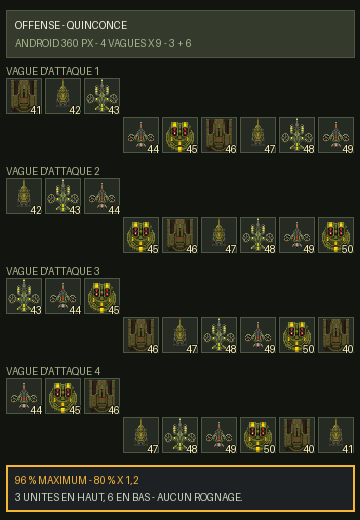
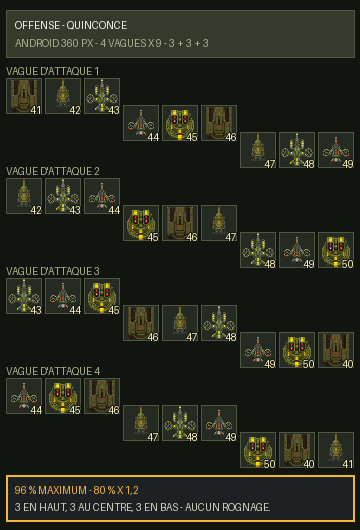
Corrige le quinconce en trois groupes de trois

diff --git a/rapports/maquette-quinconce-360.html b/rapports/maquette-quinconce-360.html
@@ -2,9 +2,9 @@
 <html lang="fr"><meta charset="utf-8"><meta name="viewport" content="width=360,initial-scale=1">
 <title>Maquette quinconce 360 px</title>
 <style>
-*{box-sizing:border-box}html,body{margin:0;width:360px;min-height:520px;background:#11140f;color:#f5f3e8;font-family:system-ui,sans-serif}body{padding:10px 6px}.entete{margin-bottom:8px;padding:8px;background:#343a2c;border:1px solid #4e5742}.entete b{font-size:13px;letter-spacing:.12em}.entete p{margin:4px 0 0;color:#aab38e;font-size:10px}.vague{margin:0 0 5px}.vague h2{margin:0 0 2px;font-size:9px;letter-spacing:.1em;color:#aab38e}.rangee{display:grid;grid-template-columns:repeat(9,minmax(0,1fr));grid-template-rows:repeat(2,auto);gap:3px;width:100%}.case{position:relative;aspect-ratio:1;overflow:hidden;border:1px solid #4e5742;background:#252a22}.case:nth-child(-n+3){grid-row:1}.case:nth-child(n+4){grid-row:2}.sprite{position:absolute;left:50%;top:50%;width:96%;height:96%;transform:translate(-50%,-50%);image-rendering:pixelated}.sprite img{position:absolute;inset:0;width:100%;height:100%;object-fit:contain;image-rendering:pixelated}.niveau{position:absolute;z-index:2;right:1px;bottom:0;color:#fff4bb;font:bold 9px/10px system-ui;text-shadow:0 1px #161914}.mesure{margin-top:7px;padding:7px;background:#1e2124;border-left:3px solid #f5b636;color:#cdd4ba;font-size:10px;line-height:1.3}.mesure b{color:#f5b636}
+*{box-sizing:border-box}html,body{margin:0;width:360px;min-height:540px;background:#11140f;color:#f5f3e8;font-family:system-ui,sans-serif}body{padding:10px 6px}.entete{margin-bottom:8px;padding:8px;background:#343a2c;border:1px solid #4e5742}.entete b{font-size:13px;letter-spacing:.12em}.entete p{margin:4px 0 0;color:#aab38e;font-size:10px}.vague{margin:0 0 5px}.vague h2{margin:0 0 2px;font-size:9px;letter-spacing:.1em;color:#aab38e}.rangee{display:grid;grid-template-columns:repeat(9,minmax(0,1fr));grid-template-rows:repeat(3,auto);column-gap:3px;row-gap:0;padding-bottom:2.6%;width:100%}.case{position:relative;aspect-ratio:1;margin-bottom:-25%;overflow:hidden;border:1px solid #4e5742;background:#252a22}.sprite{position:absolute;left:50%;top:50%;width:96%;height:96%;transform:translate(-50%,-50%);image-rendering:pixelated}.sprite img{position:absolute;inset:0;width:100%;height:100%;object-fit:contain;image-rendering:pixelated}.niveau{position:absolute;z-index:2;right:1px;bottom:0;color:#fff4bb;font:bold 9px/10px system-ui;text-shadow:0 1px #161914}.mesure{margin-top:7px;padding:7px;background:#1e2124;border-left:3px solid #f5b636;color:#cdd4ba;font-size:10px;line-height:1.3}.mesure b{color:#f5b636}
 </style>
-<body><div class="entete"><b>OFFENSE · QUINCONCE</b><p>Android 360 px · 4 vagues × 9 · 3 en haut, 6 en bas</p></div><main id="vagues"></main><div class="mesure"><b>96 % maximum</b> — partie utile 80 % × grossissement 1,2. Les neuf colonnes restent celles du combat ; seule la vague se plie sur deux lignes.</div>
+<body><div class="entete"><b>OFFENSE · QUINCONCE</b><p>Android 360 px · 4 vagues × 9 · 3 en haut, 3 au centre, 3 en bas</p></div><main id="vagues"></main><div class="mesure"><b>96 % maximum</b> — partie utile 80 % × grossissement 1,2. Les neuf colonnes restent celles du combat ; seule leur hauteur d’affichage change.</div>
 <script>
 const racine='../art/sprites/';
 const lourds=[
@@ -21,7 +21,7 @@ for(let v=1;v<=4;v++){
  const r=bloc.querySelector('.rangee');
  for(let c=1;c<=9;c++){
   const [nom,chassis,tourelle]=lourds[(c+v)%lourds.length];
-  const e=document.createElement('div');e.className='case';e.title=nom;e.style.gridColumn=String(c);e.style.gridRow=c<=3?'1':'2';
+  const e=document.createElement('div');e.className='case';e.title=nom;e.style.gridColumn=String(c);e.style.gridRow=String(Math.ceil(c/3));
   e.innerHTML=`<div class="sprite"><img src="${racine+chassis}">${tourelle?`<img src="${racine+tourelle}">`:''}</div><i class="niveau">${40+((c+v)%11)}</i>`;
   r.append(e);
  }

diff --git a/test/pictogramme.test.js b/test/pictogramme.test.js
@@ -446,7 +446,7 @@ test('PIC T6 — la famille neuve n\'a déplacé aucun des atlas d\'avant', () =
 // PIC T7 — le poids reste sous la borne, et la marge est écrite en clair
 // ---------------------------------------------------------------------------
 
-test('PIC T7 — le livrable pèse 9 391 154 octets, la marge sur la borne T10 est de 2,18 %', () => {
+test('PIC T7 — le livrable pèse 9 391 230 octets, la marge sur la borne T10 est de 2,17 %', () => {
   // ⚠⚠ DEUX MESURES, ET LA SECONDE EST CELLE QUI COMPTE. Le lot PICTOGRAMMES
   // avait produit les sprites SANS les câbler : le livrable n'avait alors pris
   // que **+911 octets**, tous en JavaScript, et le compte de `data:` n'avait pas
@@ -822,12 +822,12 @@ test('PIC T7 — le livrable pèse 9 391 154 octets, la marge sur la borne T10 e
   // MESURE, pas du patch.
   // ⚠⚠ RÉANCRÉ AU LOT RAID-REPRISE-ET-FORMATIONS, 15/09. Le livrable de `main`
   // pesait 9 386 714 octets ; l'horloge persistante, les panneaux du simulateur,
-  // le placement séparé et le quinconce validé ajoutent 4 440 octets, sans image
+  // le placement séparé et le quinconce validé ajoutent 4 516 octets, sans image
   // ni son de production nouveau.
   const BORNE = 9_600_000;           // T10 de `banc.test.js`, relevée au lot ART-90
-  const MESURE = 9_391_154;          // mesuré en version 0.99.64 · build 166
-  const MARGE = BORNE - MESURE;      // 208 846 octets
-  assert.equal(MARGE, 208_846);
+  const MESURE = 9_391_230;          // mesuré en version 0.99.65 · build 167
+  const MARGE = BORNE - MESURE;      // 208 770 octets
+  assert.equal(MARGE, 208_770);
   assert.notEqual(MARGE, 215_225,
     'la marge est revenue à l\'ancre du lot REJEU : le réancrage a été défait');
   assert.notEqual(MARGE, 214_592,
@@ -840,7 +840,7 @@ test('PIC T7 — le livrable pèse 9 391 154 octets, la marge sur la borne T10 e
     'la marge est celle d\'avant ÉCHELLE-RECHERCHE : le réancrage a été défait');
   assert.notEqual(MARGE, 213_286,
     'la marge est celle d\'avant RAID-REPRISE-ET-FORMATIONS : le réancrage a été défait');
-  assert.equal(Math.round((MARGE / BORNE) * 10_000) / 100, 2.18);
+  assert.equal(Math.round((MARGE / BORNE) * 10_000) / 100, 2.17);
   // ⚠ ET LA MARGE NE DESCEND PAS SOUS CENT CINQUANTE MILLE OCTETS. C'est la
   // borne que le brief du lot SOL-OUVRAGE pose sur le choix du côté des
   // planches : sous ce seuil, un lot de code ordinaire ne passerait plus.

diff --git a/test/offense.test.js b/test/offense.test.js
@@ -406,12 +406,14 @@ test('offense — les quatre vagues occupent tout le bassin, sans déformer les 
   assert.match(piece, /--jeton-part:\s*\d+%/,
     'la pièce ne se mesure plus en pourcentage de sa case');
 
-  // La grille occupe maintenant deux lignes physiques par vague. Les cases
-  // restent carrées et la vague ne gagne donc que la hauteur nécessaire aux
-  // deux rangées de sprites.
+  // La grille occupe maintenant trois étages physiques par vague. Les cases
+  // restent carrées et les pistes se chevauchent seulement entre des groupes
+  // placés dans des colonnes disjointes.
   const emplacements = feuille.match(/#ecran-offense \.emplacements\s*\{([^}]*)\}/)[1];
-  assert.match(emplacements, /grid-template-rows:\s*repeat\(2,\s*auto\)/,
-    'une vague n\'a plus ses deux lignes physiques');
+  assert.match(emplacements, /grid-template-rows:\s*repeat\(3,\s*auto\)/,
+    'une vague n\'a plus ses trois étages physiques');
+  assert.match(emplacement, /margin-bottom:\s*-25%/,
+    'les trois étages ne se resserrent plus pour tenir dans la hauteur');
 
   // ⚠ ET UNE VAGUE NE SE LAISSE PAS ÉCRASER : sans ça, quatre vagues dans un
   // bassin trop court rétréciraient au lieu de faire défiler, et le carré
@@ -922,7 +924,7 @@ test('offense — l\'écran porte le bassin, et il est INLINÉ', () => {
     'un bassin qui se répète ferait une couture au milieu de l\'écran');
 });
 
-test('offense — chaque vague plie ses neuf colonnes en trois puis six à 360 px', () => {
+test('offense — chaque vague plie ses neuf colonnes en trois, trois et trois à 360 px', () => {
   const { doc, parId } = fauxDocumentOffense();
   initialiserEcranOffense(doc);
 
@@ -937,8 +939,8 @@ test('offense — chaque vague plie ses neuf colonnes en trois puis six à 360 p
       Array.from({ length: NB_COLONNES }, (_, i) => String(i + 1)),
       'une colonne visuelle ne correspond plus à sa colonne de combat');
     assert.deepEqual(rangee.children.map((e) => e.style.gridRow),
-      ['1', '1', '1', '2', '2', '2', '2', '2', '2'],
-      'la vague ne suit plus le placement trois en haut, six en bas');
+      ['1', '1', '1', '2', '2', '2', '3', '3', '3'],
+      'la vague ne suit plus le placement trois en haut, trois au centre, trois en bas');
   }
 
   const source = readFileSync(join(RACINE, 'src', 'ui', 'offense.js'), 'utf8');

diff --git a/src/index.src.html b/src/index.src.html
@@ -2130,13 +2130,19 @@
     margin: 0 0 3px; font-size: 9px; letter-spacing: 0.1em; text-transform: uppercase; color: #68727E;
   }
   /* Les neuf emplacements d'une vague se plient comme sur la capture validée
-     à 360 px : les colonnes 1 à 3 occupent la ligne haute, les colonnes 4 à 9
-     la ligne basse. Elles restent sur une grille de neuf colonnes : aucune
-     translation ne sépare le dessin de la zone touchée, et la seconde ligne
-     commence exactement sous la quatrième colonne. `ui/offense.js` fournit le
-     nombre de colonnes depuis NB_COLONNES ainsi que la ligne de chaque case. */
+     à 360 px : trois en haut à gauche, trois au centre, trois en bas à droite.
+     Ils restent sur une grille de neuf colonnes : aucune translation ne sépare
+     le dessin de la zone touchée. `ui/offense.js` fournit le nombre de colonnes
+     depuis NB_COLONNES ainsi que l'étage de chaque case.
+
+     Les marges basses négatives font se chevaucher les PISTES, jamais les
+     cases : les trois groupes occupent des colonnes disjointes. Elles réduisent
+     le pas vertical d'un quart de case, et le padding rend au dernier groupe ce
+     quart afin que la vague suivante ne le recouvre pas. Le pourcentage suit
+     la largeur réelle des cases sur les écrans plus larges. */
   #ecran-offense .emplacements {
-    display: grid; grid-template-rows: repeat(2, auto); gap: 3px;
+    display: grid; grid-template-rows: repeat(3, auto);
+    column-gap: 3px; row-gap: 0; padding-bottom: 2.6%;
   }
   #ecran-offense .emplacement {
     /* ⚠ `relative` POUR LA PASTILLE DE NIVEAU — voir `.emplacement .niveau`.
@@ -2147,7 +2153,7 @@
     /* ⚠ SANS APLAT, COMME LA CASE DU RAID : même grille de composition, mêmes
        pièces — en traiter une seule aurait donné deux fonds d'un écran à
        l'autre. Voir le ⚠⚠ de `#ecran-raid .emplacement`. */
-    aspect-ratio: 1; background: transparent;
+    aspect-ratio: 1; margin-bottom: -25%; background: transparent;
     display: flex; align-items: center; justify-content: center;
     overflow: hidden; font-size: 7px; line-height: 1.1; text-align: center;
     color: #68727E; word-break: break-word;

diff --git a/src/ui/offense.js b/src/ui/offense.js
@@ -730,10 +730,10 @@ export function initialiserEcranOffense(doc, { apresPose, sonDeRefus } = {}) {
   // le balisage à chaque image ferait perdre l'aperçu et le défilement.
   corps.textContent = '';
   // La vague reste une liste logique de neuf colonnes pour le moteur. À
-  // l'écran, la capture validée le 15/09 la plie après son premier tiers :
-  // trois pièces en haut, puis six en bas à partir de la quatrième colonne.
+  // l'écran, la capture validée le 15/09 la plie par tiers : trois pièces en
+  // haut, trois au centre, puis trois en bas.
   // Le calcul suit NB_COLONNES afin que le DOM ne porte pas une seconde largeur.
-  const derniereColonneHaute = Math.ceil(NB_COLONNES / 3);
+  const emplacementsParEtage = Math.ceil(NB_COLONNES / 3);
   for (const vague of vaguesDAssaut()) {
     const bloc = doc.createElement('section');
     bloc.className = 'vague';
@@ -758,7 +758,7 @@ export function initialiserEcranOffense(doc, { apresPose, sonDeRefus } = {}) {
       // La colonne visuelle reste la colonne de combat. Seule la ligne plie,
       // donc le pointage et le glisser-déposer gardent leur géométrie réelle.
       emplacement.style.gridColumn = String(colonne);
-      emplacement.style.gridRow = colonne <= derniereColonneHaute ? '1' : '2';
+      emplacement.style.gridRow = String(Math.ceil(colonne / emplacementsParEtage));
       cellules.set(cle(vague.numero, colonne), emplacement);
       rangee.appendChild(emplacement);
     }

diff --git a/rapports/rendre-maquette-quinconce.py b/rapports/rendre-maquette-quinconce.py
@@ -3,14 +3,14 @@ from PIL import Image, ImageDraw, ImageFont
 
 RACINE = Path(__file__).resolve().parents[1]
 SORTIE = Path(__file__).with_name("maquette-quinconce-360-appliquee.png")
-W, H = 360, 520
+W, H = 360, 530
 img = Image.new("RGB", (W, H), "#11140f")
 d = ImageDraw.Draw(img)
 font = ImageFont.load_default()
 
 d.rectangle((6, 10, 354, 57), fill="#343a2c", outline="#4e5742")
 d.text((15, 19), "OFFENSE - QUINCONCE", fill="#f5f3e8", font=font)
-d.text((15, 37), "ANDROID 360 PX - 4 VAGUES X 9 - 3 + 6", fill="#aab38e", font=font)
+d.text((15, 37), "ANDROID 360 PX - 4 VAGUES X 9 - 3 + 3 + 3", fill="#aab38e", font=font)
 
 sprites = [
     ("chassis/64/off_j_belier_chassis.png", "tourelle-unite/64/off_j_belier_tourelle.png"),
@@ -29,7 +29,7 @@ for vague in range(4):
     d.text((6, top), f"VAGUE D'ATTAQUE {vague + 1}", fill="#aab38e", font=font)
     for col in range(9):
         x = row_x + col * (cell_w + gap)
-        y = top + 13 + (0 if col < 3 else cell_w + gap)
+        y = top + 13 + (col // 3) * 27
         d.rectangle((x, y, x + cell_w - 1, y + cell_w - 1), fill="#252a22", outline="#4e5742")
         chassis, tourelle = sprites[(col + vague + 1) % len(sprites)]
         layers = [chassis] + ([tourelle] if tourelle else [])
@@ -44,9 +44,9 @@ for vague in range(4):
         d.text((x + cell_w - 12, y + cell_w - 10), niv, fill="#fff4bb", font=font,
                stroke_width=1, stroke_fill="#161914")
 
-d.rectangle((6, 465, 354, 511), fill="#1e2124", outline="#f5b636", width=2)
-d.text((15, 474), "96 % MAXIMUM - 80 % X 1,2", fill="#f5b636", font=font)
-d.multiline_text((15, 491), "3 UNITES EN HAUT, 6 EN BAS - AUCUN ROGNAGE.",
+d.rectangle((6, 475, 354, 521), fill="#1e2124", outline="#f5b636", width=2)
+d.text((15, 484), "96 % MAXIMUM - 80 % X 1,2", fill="#f5b636", font=font)
+d.multiline_text((15, 501), "3 EN HAUT, 3 AU CENTRE, 3 EN BAS - AUCUN ROGNAGE.",
                  fill="#cdd4ba", font=font, spacing=5)
 img.save(SORTIE)
 print(SORTIE)

diff --git a/RAPPORT-lotRAID-REPRISE-FORMATIONS.md b/RAPPORT-lotRAID-REPRISE-FORMATIONS.md
@@ -69,15 +69,17 @@ Les scripts reproductibles sont `rapports/mesurer-formations.mjs` et
 ## Quinconce validé à 360 px
 
 La capture de référence `rapports/maquette-quinconce-360.png` a validé une vague
-pliée sur deux lignes : les colonnes 1 à 3 restent en haut à gauche, puis les
-colonnes 4 à 9 occupent la ligne basse à partir de la quatrième colonne. La
+pliée sur trois étages : les colonnes 1 à 3 restent en haut à gauche, les
+colonnes 4 à 6 occupent le centre et les colonnes 7 à 9 le bas à droite. La
 capture reproductible `rapports/maquette-quinconce-360-appliquee.png`, produite
 par `rapports/rendre-maquette-quinconce.py`, confronte cette disposition aux
 sprites les plus volumineux.
 
 `src/ui/offense.js` conserve les neuf numéros de colonne du combat et ne change
 que `grid-row`. À 360 px, les 348 px utiles moins huit écarts de 3 px donnent
-neuf cases carrées de 36 px. La pièce offensive est bornée à 96 %
+neuf cases carrées de 36 px. Les trois pistes se resserrent d'un quart de case ;
+leurs cases ne se recouvrent pas puisqu'elles occupent des colonnes disjointes.
+La pièce offensive est bornée à 96 %
 (`80 % × 1,2`) ; aucun sprite ni niveau n'est rogné. Cette modification est
 strictement visuelle et ne touche ni l'armée sérialisée, ni l'ordre des vagues,
 ni l'équilibrage.
@@ -106,12 +108,12 @@ Test ajouté : `test/formation-ouvrage.test.js`. Aucun test n'est supprimé.
 `RÉPARER T6` exige la persistance du mode.
 
 Le test de quinconce d'`offense.test.js` est remplacé par une garde DOM/CSS qui
-vérifie les quatre vagues, leurs 36 cases, le placement 3 + 6, la correspondance
+vérifie les quatre vagues, leurs 36 cases, le placement 3 + 3 + 3, la correspondance
 des colonnes de pointage, la largeur de 36 px et la borne de 96 %. Aucun fichier
 de test n'est ajouté ou supprimé par cette validation.
 
 Sous Node 22, la suite complète rend **1 627 déclarés · 1 626 pass · 0 fail ·
-1 skipped** (`LIMITE T8`). Le build produit `dist/index.html`, **9 391 154
-octets**, version **0.99.64** · build **166**, soit **4 440 octets** de plus que
-`main` à `1aca789` et une marge de **208 846 octets, 2,18 %** sous la borne T10.
+1 skipped** (`LIMITE T8`). Le build produit `dist/index.html`, **9 391 230
+octets**, version **0.99.65** · build **167**, soit **4 516 octets** de plus que
+`main` à `1aca789` et une marge de **208 770 octets, 2,17 %** sous la borne T10.
 Le lot n'ajoute ni image ni son de production.

diff --git a/CLAUDE.md b/CLAUDE.md
@@ -7,7 +7,7 @@ pour le contenu du jeu, voir la hiérarchie ci-dessous.
 distribué comme un fichier HTML autonome, avec enveloppe Android WebView et
 auto-update par GitHub Pages. Paquet : `fr.freredoc.foyerzero`.
 
-Dernière révision : **15/09/2026**, version 0.99.64 · build 166.
+Dernière révision : **15/09/2026**, version 0.99.65 · build 167.
 
 ---
 
@@ -51,13 +51,13 @@ montre le rapport déjà dû. Le simulateur montre son résultat immédiatement 
 ne lance son rejeu que sur demande.
 ⚠⚠ **LA COMPOSITION DES RAIDS DE L'OUVRAGE EST INCHANGÉE SUR 320 TÉMOINS.** Un
 flux salé distinct varie l'affectation aux 18 cases sans toucher aux tirages de
-composition. Le quinconce validé à 360 px plie chaque vague en trois unités sur
-la ligne haute puis six sur la ligne basse, en conservant les neuf colonnes de
-combat ; la pièce offensive est bornée à 96 % de sa case.
+composition. Le quinconce validé à 360 px plie chaque vague en trois groupes :
+trois unités en haut, trois au centre et trois en bas, en conservant les neuf
+colonnes de combat ; la pièce offensive est bornée à 96 % de sa case.
 `npm test` rend **1627 pass / 0 fail** au sens de la garde de
 `documentation.test.js` — c'est le nombre déclaré ; sous Node 22, le verdict
 mesuré est **1626 pass · 0 fail · 1 skipped** (`LIMITE T8`). `npm run build`
-produit **9 391 154 octets**, version **0.99.64 · build 166**, soit **+4 440
+produit **9 391 230 octets**, version **0.99.65 · build 167**, soit **+4 516
 octets** sur `main` à `1aca789`. Détails, mesures et liste des tests dans
 `RAPPORT-lotRAID-REPRISE-FORMATIONS.md`.
 
